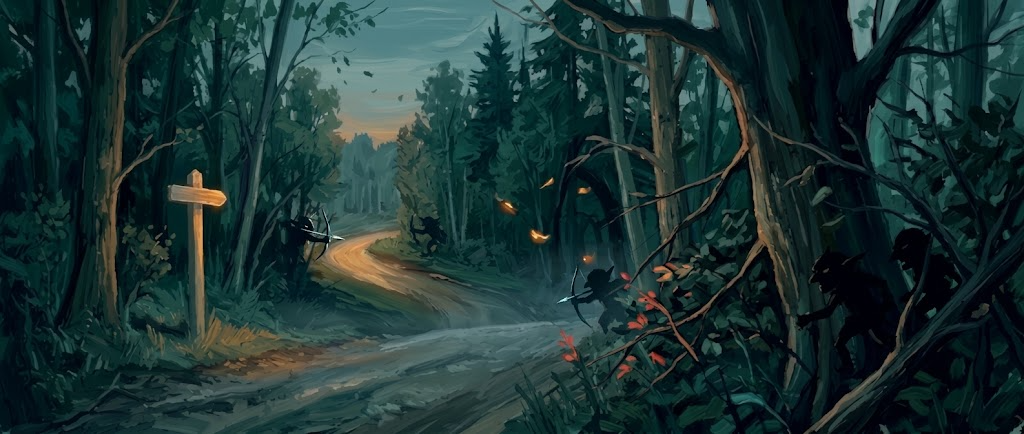
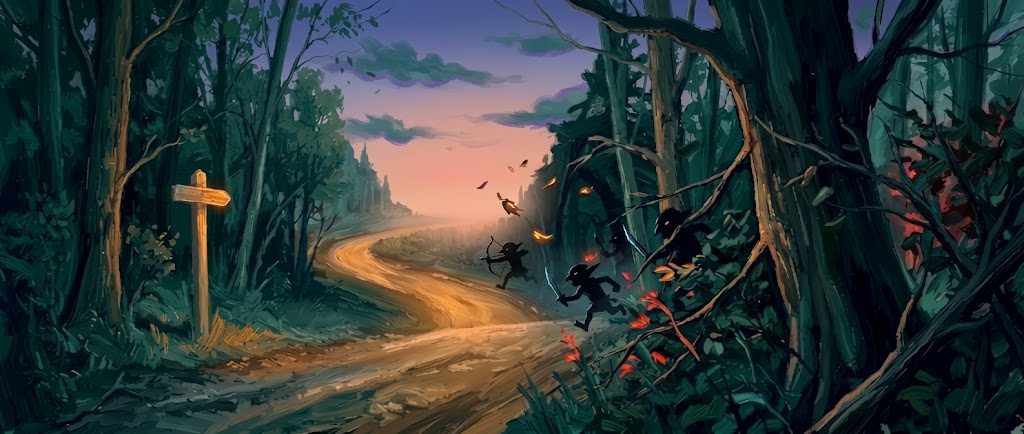
f3+f7 zone-contrast iterations integrated
accampamento-v2 (raider camp: varied dyed hides, trophies,
goblin silhouettes, cookfire) replaces the quasi A12 for all
three f3 nodes; agguato-v2 + revealed re-rendered with the
varied sky (indigo->apricot + teal wisps) and warm/cold zone
contrast. Manifest + NODE_ART + legacy LIBRARY_ART kept valid.

Generated with [Devin](https://devin.ai)

diff --git a/src/ui/idleVillage/questS1Lab/questArt.ts b/src/ui/idleVillage/questS1Lab/questArt.ts
@@ -61,9 +61,9 @@ export const NODE_ART: Record<string, { src: string; fit: 'contain' | 'cover' }>
   'gob-tracce-per': { src: '/assets/scene-library/sentiero-tracce.jpg', fit: 'cover' },
   'gob-tracce-perfor': { src: '/assets/scene-library/sentiero-tracce.jpg', fit: 'cover' },
   'gob-bottino': { src: '/assets/scene-library/bottino-v2.png', fit: 'cover' },
-  'gob-accampamento': { src: '/assets/scene-library/accampamento-raider.jpg', fit: 'cover' },
-  'gob-stealth': { src: '/assets/scene-library/accampamento-raider.jpg', fit: 'cover' },
-  'gob-assalto': { src: '/assets/scene-library/accampamento-raider.jpg', fit: 'cover' },
+  'gob-accampamento': { src: '/assets/scene-library/accampamento-v2.png', fit: 'cover' },
+  'gob-stealth': { src: '/assets/scene-library/accampamento-v2.png', fit: 'cover' },
+  'gob-assalto': { src: '/assets/scene-library/accampamento-v2.png', fit: 'cover' },
   'gob-combattimento': { src: '/assets/scene-library/assalto-goblin.jpg', fit: 'cover' },
   'gob-incalzare': { src: '/assets/scene-library/incalzare-v2.png', fit: 'cover' },
   'gob-incalza-check': { src: '/assets/scene-library/incalzare-v2.png', fit: 'cover' },
@@ -124,6 +124,8 @@ export const LIBRARY_ART: Record<string, { src: string; fit: 'cover' }> = {
   'spoglie-v2': { src: '/assets/scene-library/spoglie-v2.png', fit: 'cover' },
   'agguato-foresta': { src: '/assets/scene-library/agguato-foresta.jpg', fit: 'cover' },
   'agguato-v2': { src: '/assets/scene-library/agguato-v2.png', fit: 'cover' },
+  'accampamento-raider': { src: '/assets/scene-library/accampamento-raider.jpg', fit: 'cover' },
+  'accampamento-v2': { src: '/assets/scene-library/accampamento-v2.png', fit: 'cover' },
   /* Horizontally TILEABLE variant of the same plate (2026-10-26): the
    *  i3 image rolled 50%, the center seam healed in Gemini, rolled back —
    *  left/right edges now continue into each other (the crag splits

diff --git a/src/ui/idleVillage/questS1Lab/render/sceneManifest.ts b/src/ui/idleVillage/questS1Lab/render/sceneManifest.ts
@@ -390,6 +390,30 @@ export const SCENE_CINEMATICS: Record<string, SceneCinematicEntry> = SceneCinema
       { type: 'dust', count: 8 },
     ],
   },
+  'accampamento-v2': {
+    /* f3 raider camp (2026-10-26): tents from hunted pelts with
+     *  trophies (antlers, skull totems, war-marks), ember cookfire,
+     *  goblin silhouettes — spied from the ferns. Director ruling:
+     *  raider-not-hobo, varied dyed hides not grey canvas. */
+    depth: '/assets/depth/accampamento-v2.webp',
+    depthWidth: 512,
+    depthHeight: 217,
+    imgAspect: 1024 / 434,
+    entrance: 'enter-settle-cover',
+    pose: 'pose-watch',
+    focusAnchor: [0.5, 0.55],
+    atmosphere: [],
+    ambient: [
+      /* Cookfire + embers pooling warm on the clearing. */
+      { type: 'glow', at: [0.5, 0.62], r: 0.1, color: '#ff9838', a: 0.5, flicker: 0.5 },
+      { type: 'smoke', at: [0.5, 0.56], count: 4, lean: 0.12 },
+      { type: 'embers', at: [0.5, 0.6], count: 5 },
+      /* Hanging pot glint + dusk mist at the clearing edge. */
+      { type: 'glint', at: [0.52, 0.5], period: 9, r: 0.005 },
+      { type: 'drift', band: [0.55, 0.72], count: 2, lean: 0.25 },
+      { type: 'dust', count: 8 },
+    ],
+  },
   'agguato-v2': {
     /* f7 ambush (2026-10-26): empty cold-dusk road through the treeline,
      *  pale waypost, right-edge occluder trunk = the corner the player
